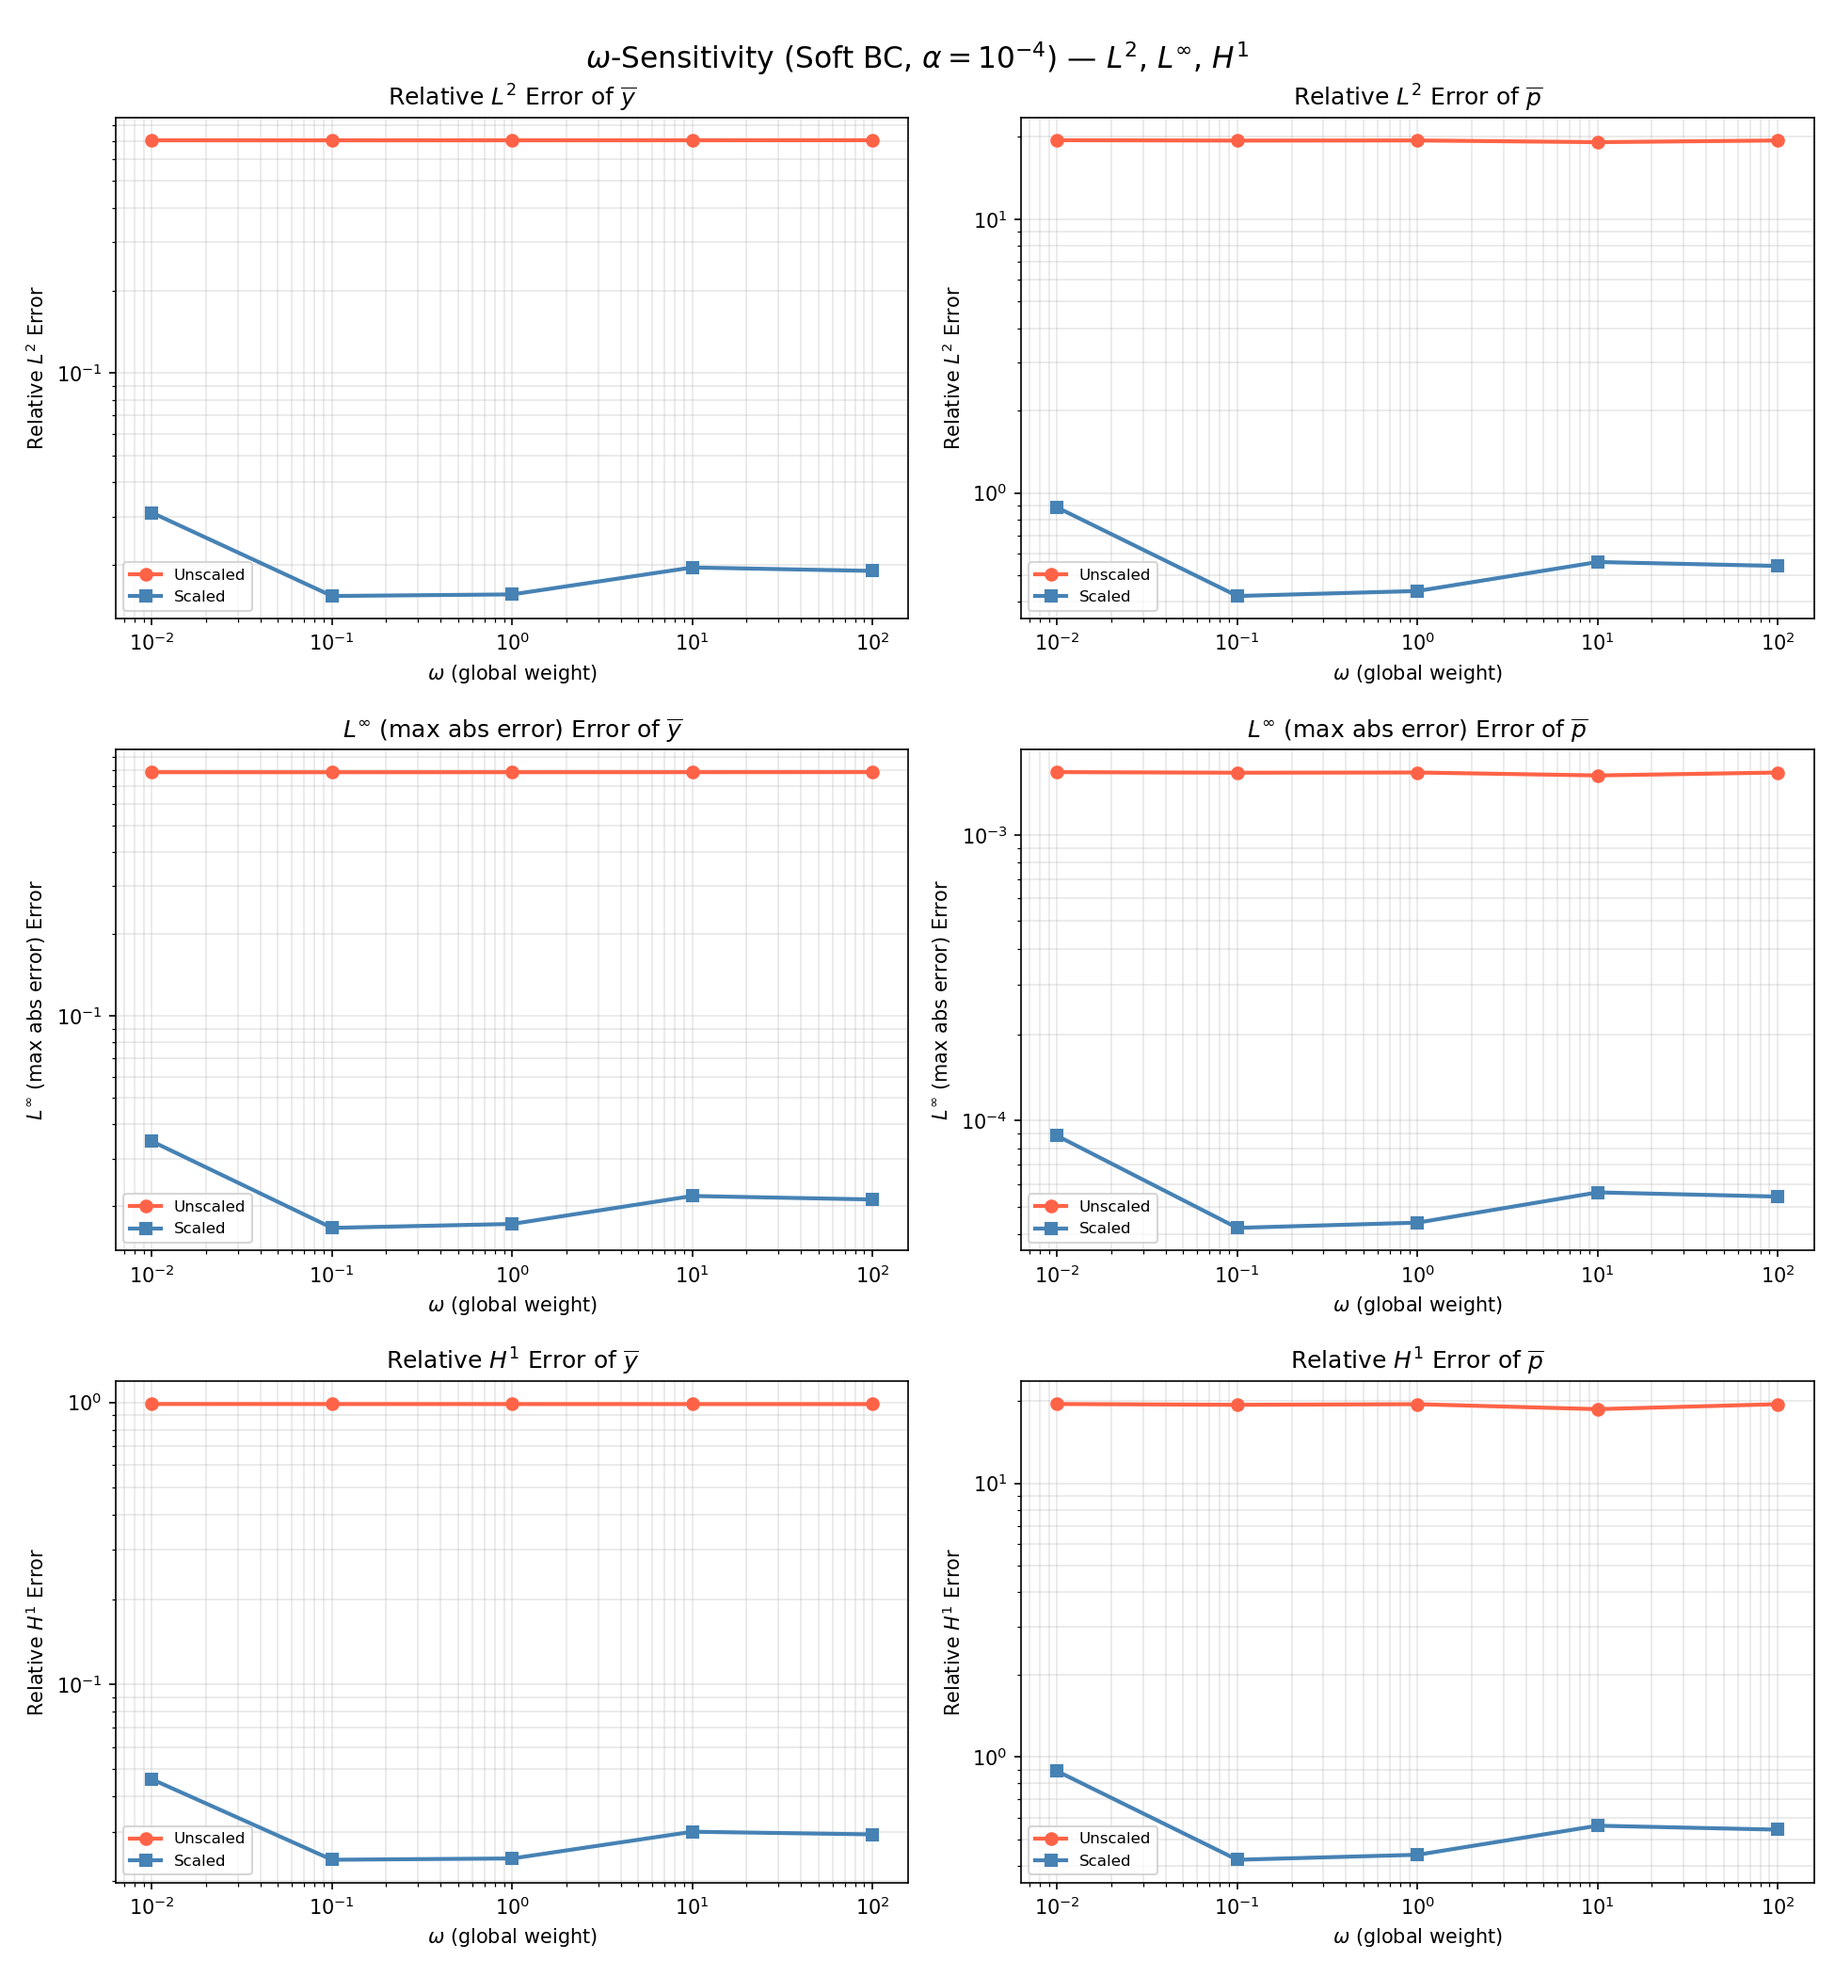
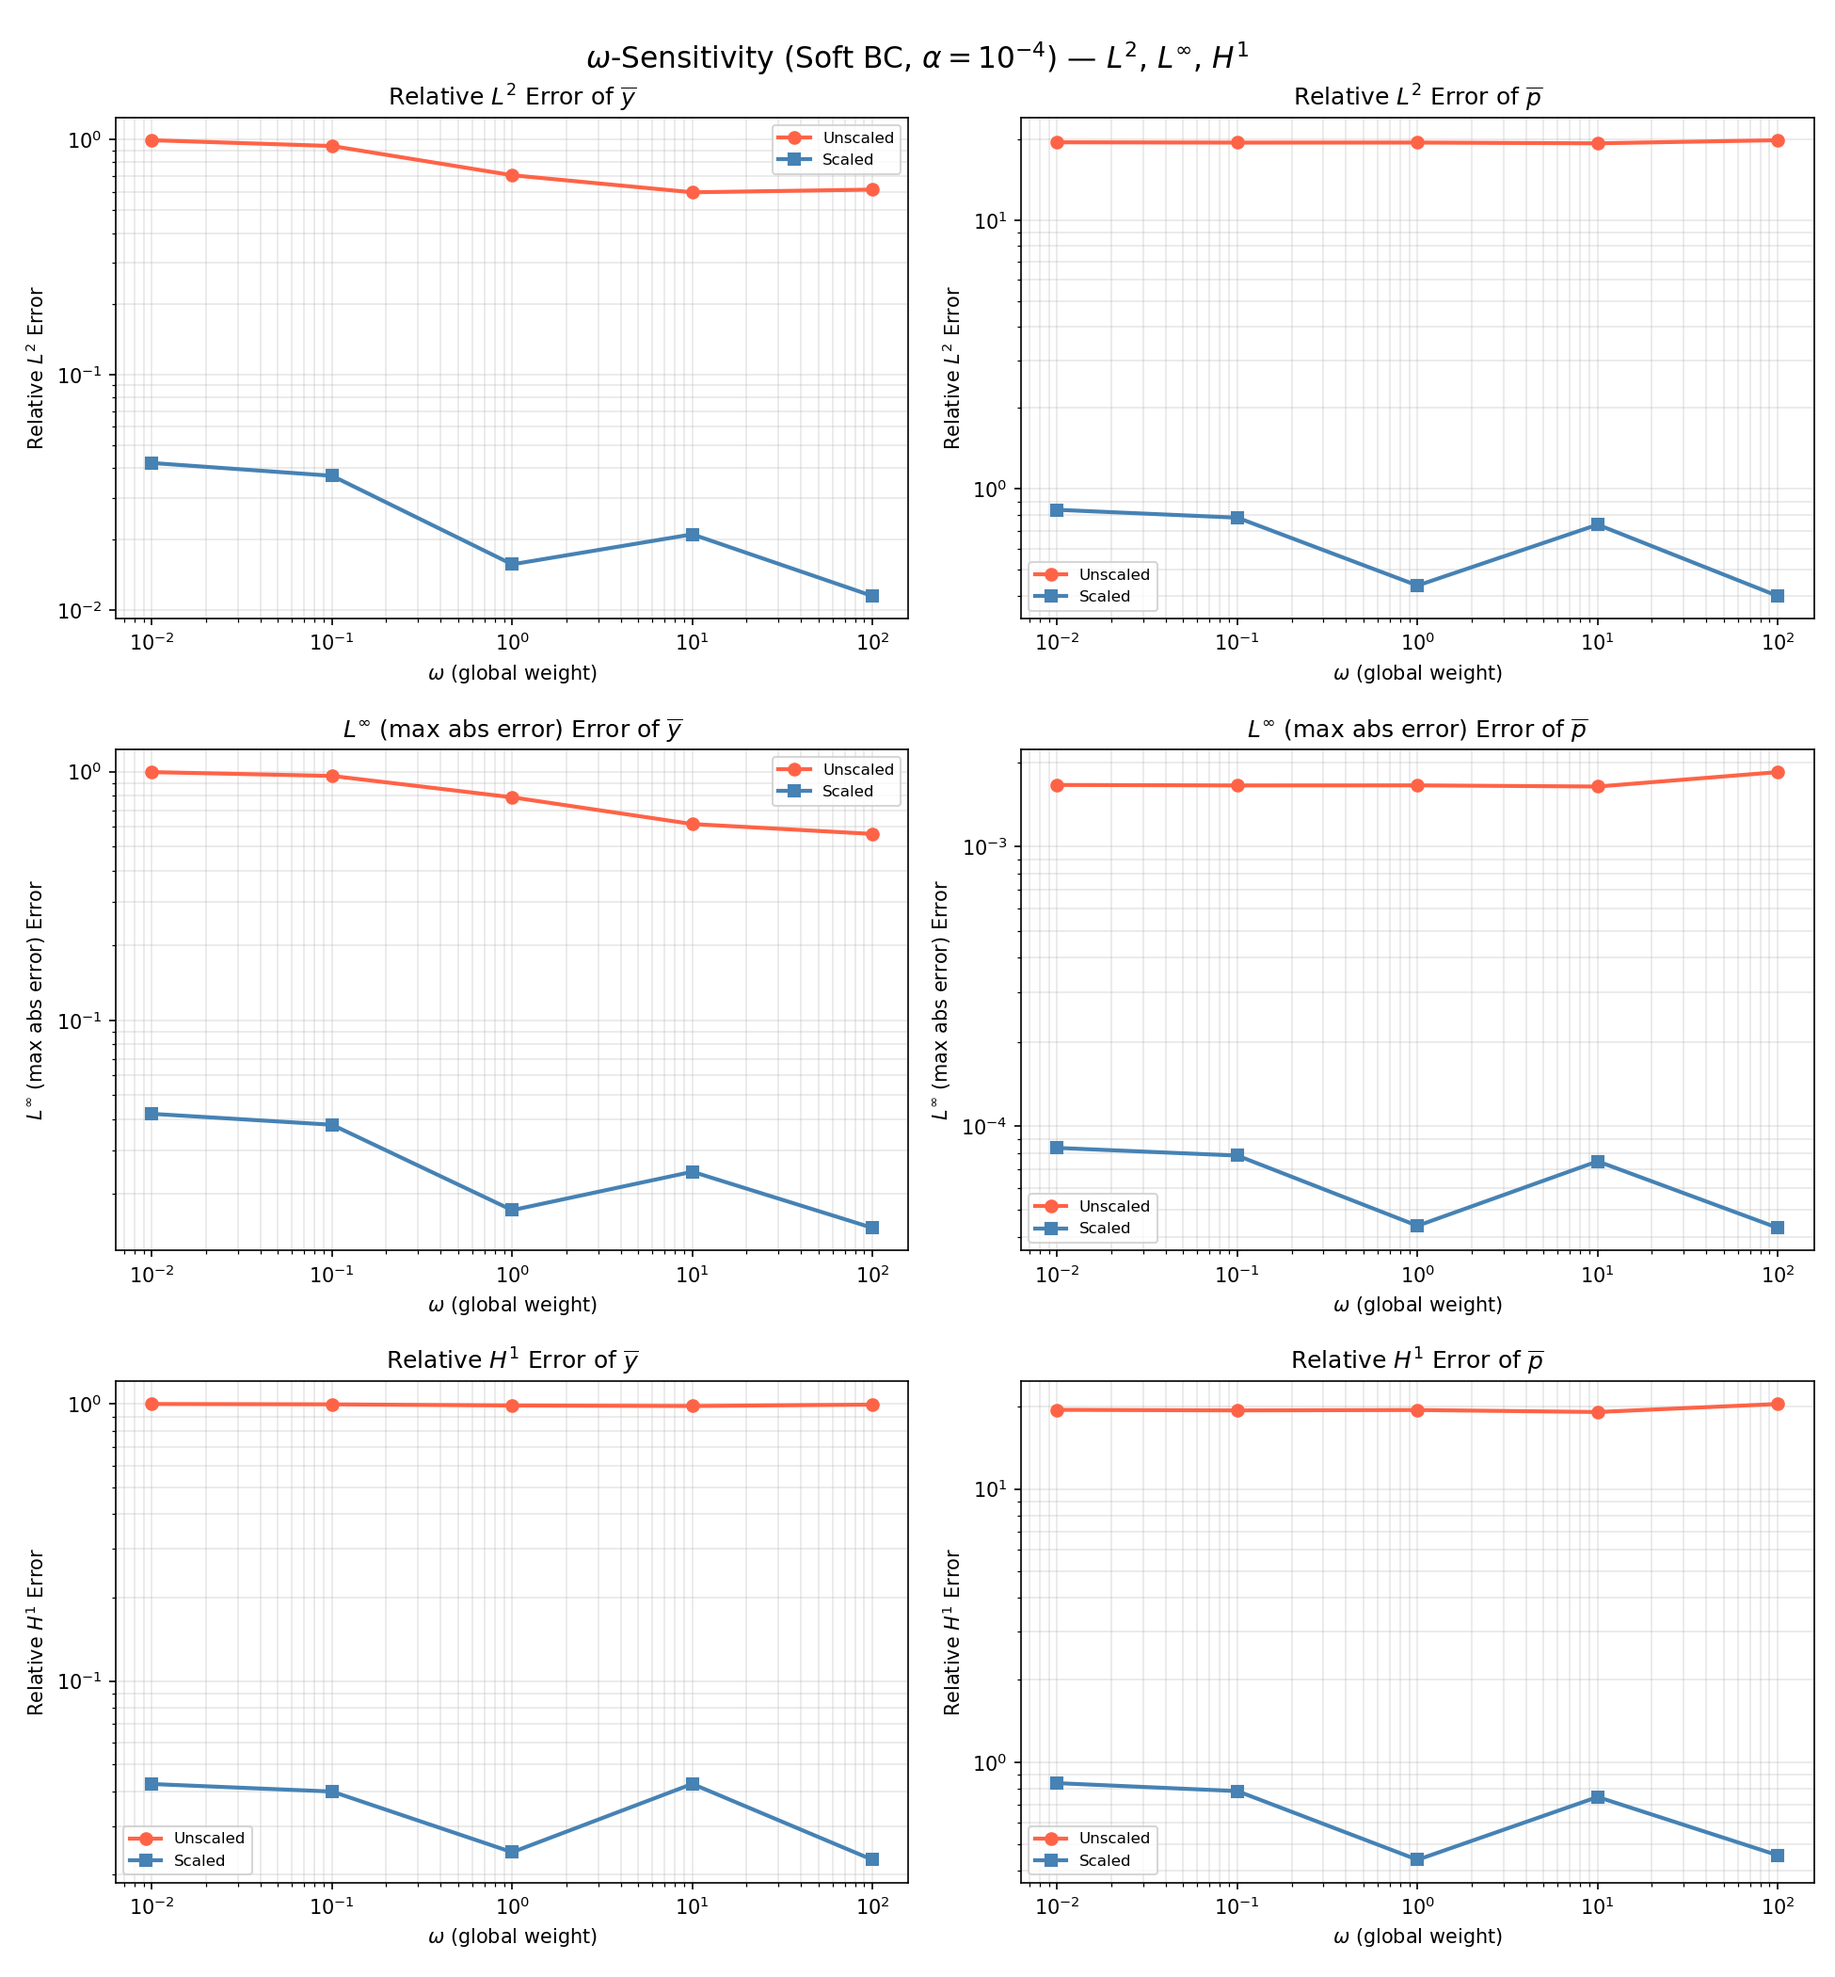
Update soft BC unified experiments

diff --git a/alpha_test_unified_soft-bc.py b/alpha_test_unified_soft-bc.py
@@ -1,8 +1,13 @@
 """
-weight_test_soft_bc.py
-======================
-ω-Sensitivity 实验：固定 α=1e-4，扫描全局权重 ω
-基于 Unified Network + 软边界 (Soft BC)
+alpha_test_soft_bc.py
+=====================
+对照实验：单网络双输出 + 软边界 (Soft BC)
+与 alpha_test_unified.py (Hard BC) 形成对比
+
+改动点：
+  1. 移除硬边界 Ansatz (D_x)
+  2. Loss = mean([r1, r2]²) + mean([bc_y, bc_p]²)
+     (y和p作为一个PDE整体，边界BC作为单独的一个整体)
 """
 
 import math
@@ -24,7 +29,7 @@ elif torch.cuda.is_available():
     device = torch.device("cuda")
 else:
     device = torch.device("cpu")
-print(f"Weight Sensitivity Test (Soft BC) starting on: {device}")
+print(f"Unified-Net (Soft BC) Test Script starting on: {device}")
 
 # ---------------------------------------------------------------------------
 # 2. Core Math & MMS
@@ -65,37 +70,40 @@ class ManufacturedSolution:
         dp_dx2 = self.alpha * self.pi * torch.sin(self.pi * x1) * torch.cos(self.pi * x2)
         return dp_dx1, dp_dx2
 
+
 # ---------------------------------------------------------------------------
 # 3. 单网络双输出
 # ---------------------------------------------------------------------------
 class DualOutputNet(nn.Module):
+    """共享隐藏层，输出 (y, p) 二维向量"""
     def __init__(self):
         super(DualOutputNet, self).__init__()
         self.net = nn.Sequential(
             nn.Linear(2, 50), nn.SiLU(),
             nn.Linear(50, 50), nn.SiLU(),
             nn.Linear(50, 50), nn.SiLU(),
-            nn.Linear(50, 2)
+            nn.Linear(50, 2)   # 双输出
         )
     def forward(self, x):
         out = self.net(x)
         return out[:, 0:1], out[:, 1:2]
 
+
 # ---------------------------------------------------------------------------
-# 4. Solver: 单网络 + 全局权重 ω + 软边界
+# 4. Solver: 软边界 + 分离的 BC Loss
 # ---------------------------------------------------------------------------
 class UnifiedSolver:
-    def __init__(self, system_type, alpha, omega, mms):
+    def __init__(self, system_type, alpha, mms):
         self.system_type = system_type
         self.alpha = alpha
-        self.omega = omega
         self.mms = mms
         self.net = DualOutputNet().to(device)
-        self.bc_weight = 1.0 # 内部残差与边界残差的相对权重，暂设为1:1
 
     def forward_eval(self, x):
         raw_y, raw_p = self.net(x)
-        # 移除硬边界 Ansatz D_x，直接使用网络输出进行物理特征缩放
+        # 【修改点 1】：移除硬约束 (Ansatz D_x)
+        
+        # 特征缩放
         if self.system_type == 'scaled':
             y_pred = raw_y * (self.alpha ** 0.25)
             p_pred = raw_p * (self.alpha ** 0.75)
@@ -104,7 +112,7 @@ class UnifiedSolver:
         return y_pred, p_pred
 
     def compute_loss(self, x_interior, x_bnd):
-        # ---------------- 1. 内部 PDE 损失 ----------------
+        # ---------------- A. 内部 PDE 损失 ----------------
         x_interior.requires_grad_(True)
         y_pred, p_pred = self.forward_eval(x_interior)
         lap_y = compute_laplacian(y_pred, x_interior)
@@ -117,33 +125,35 @@ class UnifiedSolver:
         if self.system_type == 'unscaled':
             res_pde1 = -lap_y - (f + u_d) + (1.0 / self.alpha) * p_pred
             res_pde2 = -lap_p - y_pred + y_d
-            pde_vec = torch.cat([res_pde1, res_pde2], dim=0)
         else:
             a_1_2 = self.alpha ** 0.5
             a_3_4 = self.alpha ** 0.75
             a_1_4 = self.alpha ** 0.25
-            res_pde1 = -a_1_2 * lap_y + p_pred - a_3_4 * (f + u_d)
-            res_pde2 = -a_1_2 * lap_p - y_pred + a_1_4 * y_d
-            pde_vec = torch.cat([res_pde1 / a_3_4, res_pde2 / a_1_4], dim=0)
+            res_pde1 = (-a_1_2 * lap_y + p_pred - a_3_4 * (f + u_d)) / a_3_4
+            res_pde2 = (-a_1_2 * lap_p - y_pred + a_1_4 * y_d) / a_1_4
 
-        loss_pde = torch.mean(pde_vec ** 2)
+        # y和p拼接为PDE系统的整体
+        residual_vec = torch.cat([res_pde1, res_pde2], dim=0)
+        loss_pde = torch.mean(residual_vec ** 2)
 
-        # ---------------- 2. 软边界 BC 损失 ----------------
+        # ---------------- B. 软边界 BC 损失 ----------------
         y_bnd, p_bnd = self.forward_eval(x_bnd)
         # 真实边界条件为齐次狄利克雷: y=0, p=0
         
         if self.system_type == 'unscaled':
-            # 未缩放系统，直接计算平方均值
             bc_vec = torch.cat([y_bnd, p_bnd], dim=0)
         else:
-            # 极度关键：缩放系统的边界预测值也必须除以对应的特征尺度，将其数值归一化回 O(1) 量级！
+            # 【修改点 2】：Scaled系统的边界残差同样必须数值归一化
+            a_3_4 = self.alpha ** 0.75
+            a_1_4 = self.alpha ** 0.25
             bc_vec = torch.cat([y_bnd / a_1_4, p_bnd / a_3_4], dim=0)
             
-        loss_bc = self.bc_weight * torch.mean(bc_vec ** 2)
+        loss_bc = torch.mean(bc_vec ** 2)
 
-        # ω 仅作为内部 PDE 向量的权重，BC 拥有自己单独的权重 (bc_weight=1.0)
-        loss = self.omega * loss_pde + loss_bc
+        # 【修改点 3】：按要求，PDE作为一个整体，BC作为一个整体相加
+        loss = loss_pde + loss_bc
         return loss
+
 
 # ---------------------------------------------------------------------------
 # 5. Hybrid Training Loop (Adam + L-BFGS)
@@ -151,10 +161,9 @@ class UnifiedSolver:
 def hybrid_train(solver, adam_epochs=1500, lbfgs_epochs=1000):
     optimizer_adam = optim.Adam(solver.net.parameters(), lr=1e-3)
     
-    # 内部点
+    # 【修改点 4】：增加边界点采样
     x_int = torch.rand(2500, 2, device=device)
     
-    # 边界点 (共400个点，每条边100个)
     pts = 100
     x_edge = torch.rand(pts, 1, device=device)
     zeros = torch.zeros_like(x_edge)
@@ -169,8 +178,9 @@ def hybrid_train(solver, adam_epochs=1500, lbfgs_epochs=1000):
     solver.net.train()
     for epoch in range(adam_epochs):
         optimizer_adam.zero_grad()
-        loss = solver.compute_loss(x_int, x_bnd)
+        loss = solver.compute_loss(x_int, x_bnd) # 传入边界点
         loss.backward()
+        # 软边界易产生初期剧烈震荡，加入梯度裁剪进行保护
         torch.nn.utils.clip_grad_norm_(solver.net.parameters(), max_norm=1e4)
         optimizer_adam.step()
 
@@ -187,7 +197,7 @@ def hybrid_train(solver, adam_epochs=1500, lbfgs_epochs=1000):
 
     def closure():
         optimizer_lbfgs.zero_grad()
-        loss = solver.compute_loss(x_int, x_bnd)
+        loss = solver.compute_loss(x_int, x_bnd) # 传入边界点
         loss.backward()
         return loss
 
@@ -196,12 +206,15 @@ def hybrid_train(solver, adam_epochs=1500, lbfgs_epochs=1000):
     except Exception as e:
         print(f"      [L-BFGS early stopped: {e}]")
 
+
 # ---------------------------------------------------------------------------
 # 6. Comprehensive Error Evaluation (L², L∞, H¹)
 # ---------------------------------------------------------------------------
 def evaluate_errors(solver, mms):
     solver.net.eval()
-    x1, x2 = torch.meshgrid(torch.linspace(0, 1, 100), torch.linspace(0, 1, 100), indexing='ij')
+
+    x1, x2 = torch.meshgrid(torch.linspace(0, 1, 100),
+                             torch.linspace(0, 1, 100), indexing='ij')
     x_test = torch.stack([x1.flatten(), x2.flatten()], dim=-1).to(device)
     x_test.requires_grad_(True)
 
@@ -215,8 +228,16 @@ def evaluate_errors(solver, mms):
     y_exact = mms.exact_y(x_test)
     p_exact = mms.exact_p(x_test)
 
-    grad_y_pred = torch.autograd.grad(outputs=y_pred, inputs=x_test, grad_outputs=torch.ones_like(y_pred), create_graph=False, retain_graph=True)[0]
-    grad_p_pred = torch.autograd.grad(outputs=p_pred, inputs=x_test, grad_outputs=torch.ones_like(p_pred), create_graph=False, retain_graph=False)[0]
+    grad_y_pred = torch.autograd.grad(
+        outputs=y_pred, inputs=x_test,
+        grad_outputs=torch.ones_like(y_pred),
+        create_graph=False, retain_graph=True
+    )[0]
+    grad_p_pred = torch.autograd.grad(
+        outputs=p_pred, inputs=x_test,
+        grad_outputs=torch.ones_like(p_pred),
+        create_graph=False, retain_graph=False
+    )[0]
 
     dy_dx1_exact, dy_dx2_exact = mms.grad_exact_y(x_test)
     dp_dx1_exact, dp_dx2_exact = mms.grad_exact_p(x_test)
@@ -230,6 +251,7 @@ def evaluate_errors(solver, mms):
 
     l2_y = torch.sqrt(torch.sum(err_y**2) / torch.sum(y_exact**2)).item()
     l2_p = torch.sqrt(torch.sum(err_p**2) / torch.sum(p_exact**2)).item()
+
     linf_y = torch.max(torch.abs(err_y)).item()
     linf_p = torch.max(torch.abs(err_p)).item()
 
@@ -241,40 +263,41 @@ def evaluate_errors(solver, mms):
     h1_exact_p_sq = torch.sum(p_exact**2) + torch.sum(grad_p_exact**2)
     h1_p = torch.sqrt(h1_err_p_sq / h1_exact_p_sq).item()
 
-    return {'l2_y': l2_y, 'l2_p': l2_p, 'linf_y': linf_y, 'linf_p': linf_p, 'h1_y': h1_y, 'h1_p': h1_p}
+    return {
+        'l2_y': l2_y, 'l2_p': l2_p,
+        'linf_y': linf_y, 'linf_p': linf_p,
+        'h1_y': h1_y, 'h1_p': h1_p,
+    }
+
 
 # ---------------------------------------------------------------------------
-# 7. Execution
+# 7. Execution & Plotting
 # ---------------------------------------------------------------------------
-ALPHA = 1e-4
-omegas = [0.01, 0.1, 1.0, 10.0, 100.0]
-
+alphas = [1e-2, 1e-3, 1e-4, 1e-5]
 results = {
     'unscaled': {'l2_y': [], 'l2_p': [], 'linf_y': [], 'linf_p': [], 'h1_y': [], 'h1_p': []},
     'scaled':   {'l2_y': [], 'l2_p': [], 'linf_y': [], 'linf_p': [], 'h1_y': [], 'h1_p': []},
 }
 
-print(f"\nFixed α = {ALPHA:.0e} (Soft Boundary Conditions)")
-print(f"\n{'Omega':<10} | {'System':<10} | {'L2_y':<11} | {'L2_p':<11} | "
+print(f"\n{'Alpha':<10} | {'System':<10} | {'L2_y':<11} | {'L2_p':<11} | "
       f"{'Linf_y':<11} | {'Linf_p':<11} | {'H1_y':<11} | {'H1_p':<11} | {'Time(s)':<8}")
 print("-" * 112)
 
-mms = ManufacturedSolution(ALPHA)
-
-for omega in omegas:
+for alpha in alphas:
+    mms = ManufacturedSolution(alpha)
     for sys in ['unscaled', 'scaled']:
         torch.manual_seed(42)
-        solver = UnifiedSolver(sys, ALPHA, omega, mms)
-        
+        solver = UnifiedSolver(sys, alpha, mms)
+
         t0 = time.time()
         hybrid_train(solver, adam_epochs=1500, lbfgs_epochs=1000)
         t_elap = time.time() - t0
-        
+
         errs = evaluate_errors(solver, mms)
         for k in errs:
             results[sys][k].append(errs[k])
-            
-        print(f"{omega:<10.2f} | {sys:<10} | {errs['l2_y']:<11.4e} | {errs['l2_p']:<11.4e} | "
+
+        print(f"{alpha:<10.0e} | {sys:<10} | {errs['l2_y']:<11.4e} | {errs['l2_p']:<11.4e} | "
               f"{errs['linf_y']:<11.4e} | {errs['linf_p']:<11.4e} | "
               f"{errs['h1_y']:<11.4e} | {errs['h1_p']:<11.4e} | {t_elap:<8.1f}")
 
@@ -282,7 +305,7 @@ for omega in omegas:
 # 8. Plotting
 # ---------------------------------------------------------------------------
 fig, axes = plt.subplots(3, 2, figsize=(13, 14))
-fig.suptitle(r'$\omega$-Sensitivity (Soft BC, $\alpha=10^{-4}$) — $L^2$, $L^\infty$, $H^1$', fontsize=15)
+fig.suptitle(r'$\alpha$-Sensitivity (Soft BC) — $L^2$, $L^\infty$, $H^1$', fontsize=15)
 
 norm_keys = [
     ('l2_y',   'l2_p',   r'Relative $L^2$'),
@@ -294,16 +317,19 @@ var_labels = [r'$\overline{y}$', r'$\overline{p}$']
 for row, (key_y, key_p, norm_name) in enumerate(norm_keys):
     for col, (key, var_label) in enumerate(zip([key_y, key_p], var_labels)):
         ax = axes[row, col]
-        ax.loglog(omegas, results['unscaled'][key], 'o-', color='tomato', label='Unscaled', lw=2)
-        ax.loglog(omegas, results['scaled'][key], 's-', color='steelblue', label='Scaled', lw=2)
-        ax.set_xlabel(r'$\omega$ (global weight)')
+        ax.loglog(alphas, results['unscaled'][key], 'o-', color='tomato',
+                  label='Unscaled (Eq 1.4)', lw=2)
+        ax.loglog(alphas, results['scaled'][key], 's-', color='steelblue',
+                  label='Scaled (Eq 1.5 Robust-PINN)', lw=2)
+        ax.set_xlabel(r'$\alpha$')
         ax.set_ylabel(f'{norm_name} Error')
         ax.set_title(f'{norm_name} Error of {var_label}')
+        ax.invert_xaxis()
         ax.grid(True, which='both', alpha=0.3)
         ax.legend(fontsize=8)
 
 plt.tight_layout()
-plt.savefig('weight_sensitivity_soft_bc.png', dpi=150)
-print(f"\nDone! Saved plot to 'weight_sensitivity_soft_bc.png'")
+plt.savefig('unified_sensitivity_soft_bc_result.png', dpi=150)
+print("\nDone! Saved plot to 'unified_sensitivity_soft_bc_result.png'")
 
 
